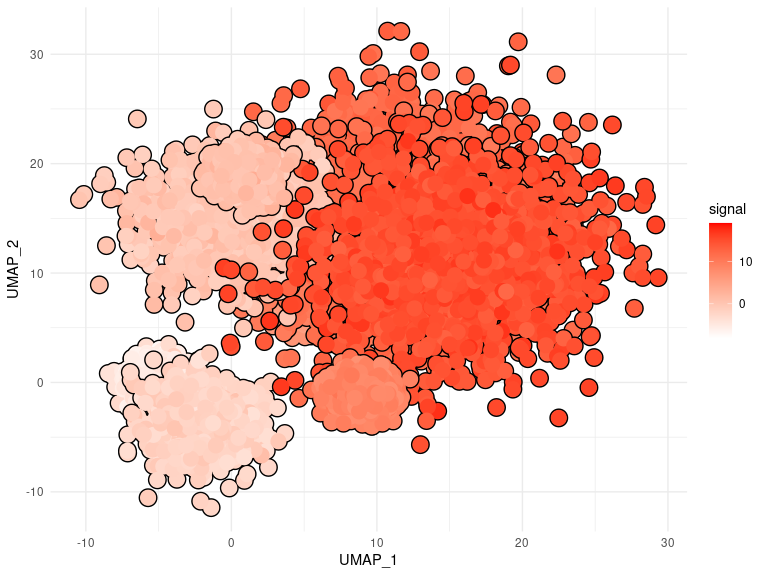
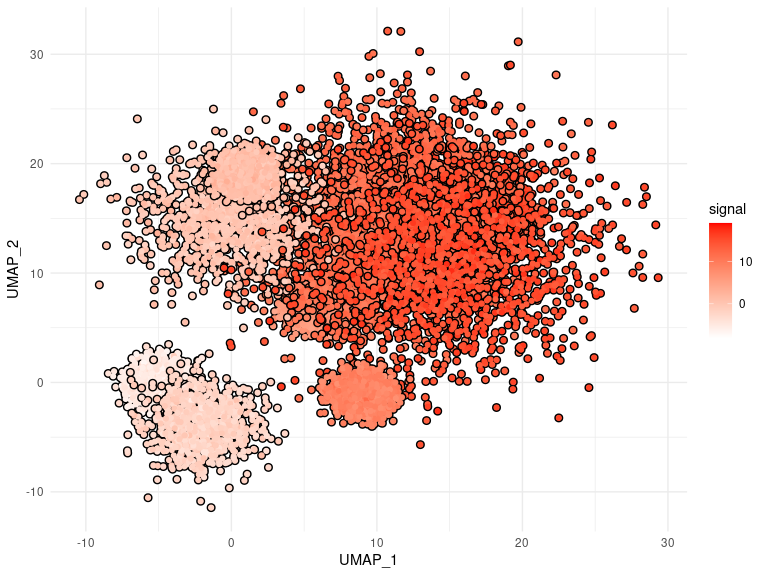
updated README

diff --git a/README.md b/README.md
@@ -101,10 +101,7 @@ ggplot(
   scale_color_gradientn(
     colors = c("white", "red")
   ) +
-  geom_point_trace(
-    size       = 5,
-    trace_size = 1
-  )
+  geom_point_trace(trace_size = 1)
 ```
 
 <img src="man/figures/README-unnamed-chunk-6-1.png" width="100%" />
